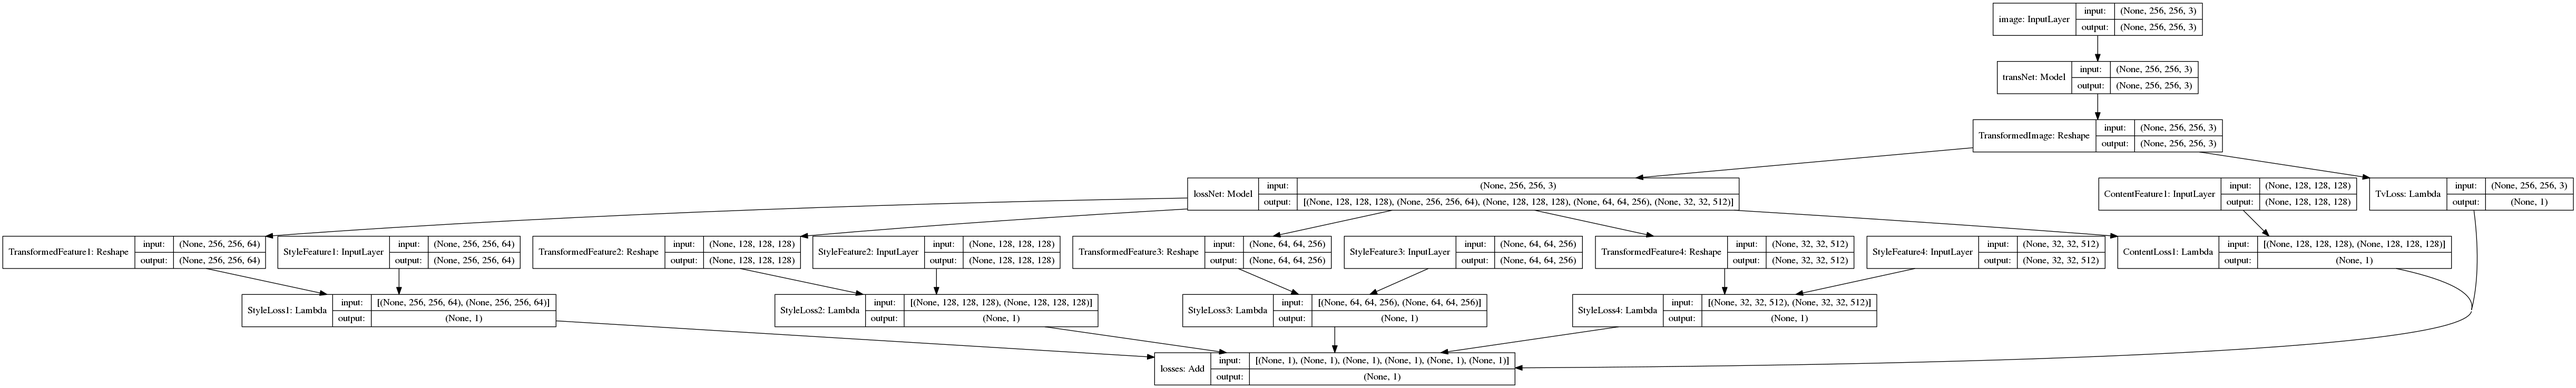
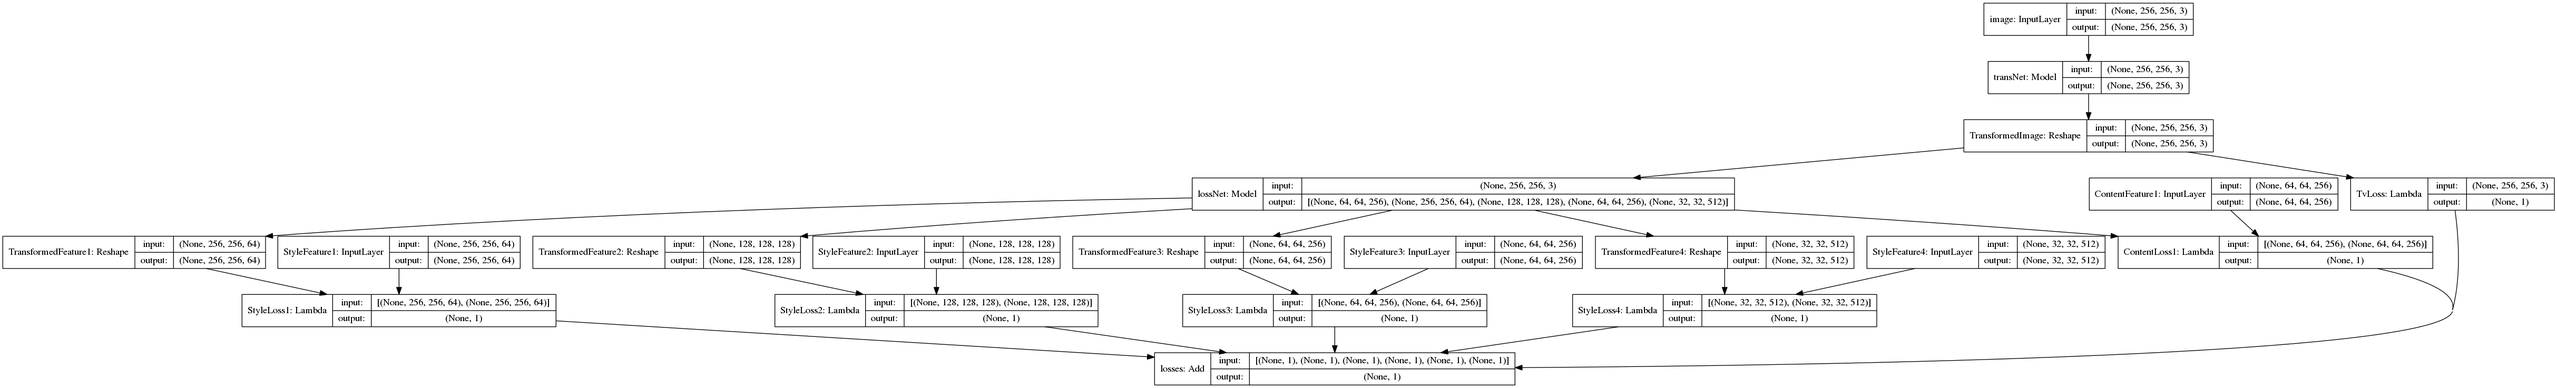
modify conf

diff --git a/conf.py b/conf.py
@@ -2,11 +2,11 @@ img_nrows = 256
 img_ncols = 256
 content_weight = 1
 style_weight = 5
-tv_weight = 1e-4
+tv_weight = 1e-10
 learning_rate = 1e-3
 style_feature_layers = ['block1_conv2', 'block2_conv2',
                         'block3_conv3', 'block4_conv3']
-content_feature_layers = ['block2_conv2']
+content_feature_layers = ['block3_conv3']
 style_name = "candy"
 style_image_dirpath = "img/style/raw"
 style_feature_dirpath = "img/style/feature"
